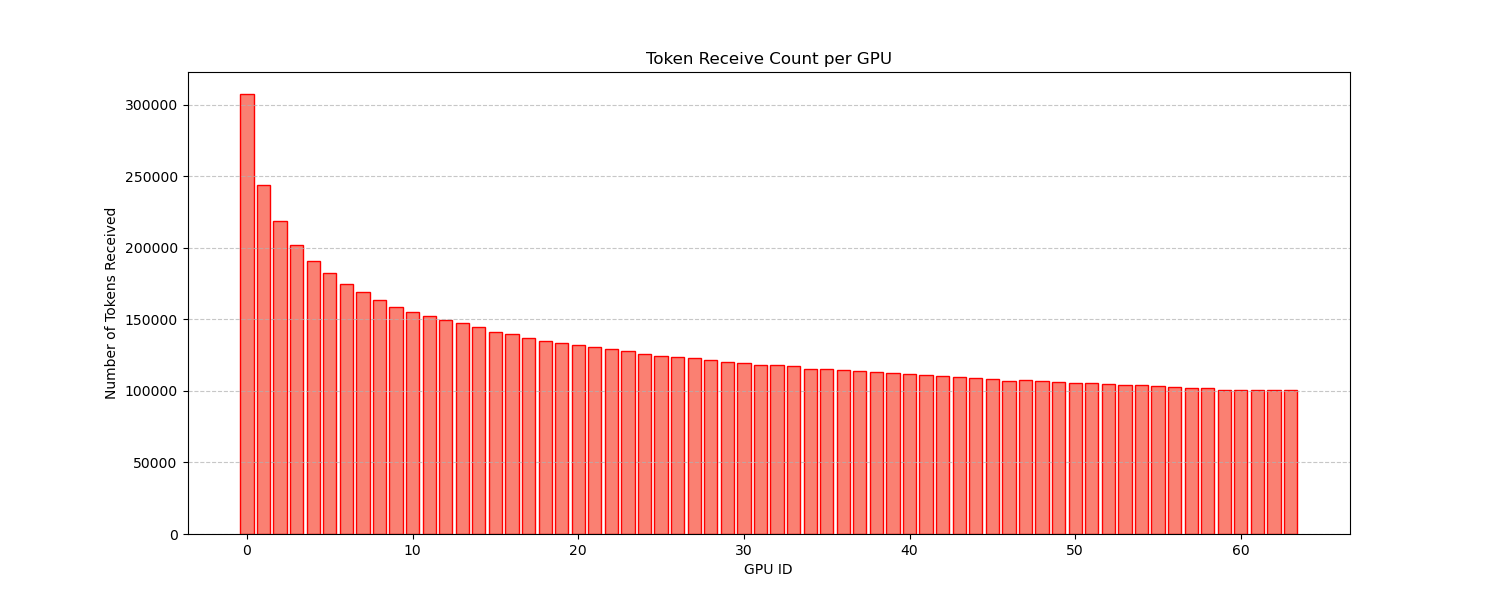
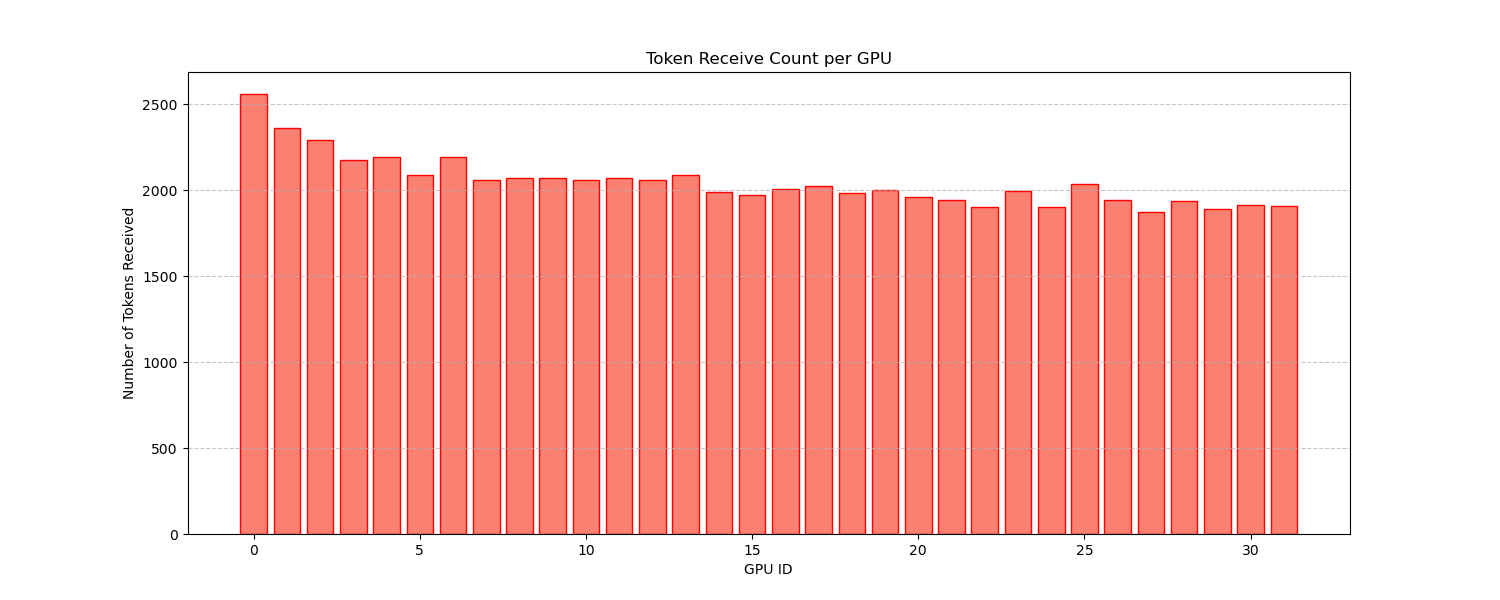
initially successful, code is not review

diff --git a/generate_workload.py b/generate_workload.py
@@ -4,7 +4,7 @@ import numpy as np
 import pickle
 from tqdm import tqdm
 from common import *
-from analyze_workload import analyze_pkl_workload
+from analyze_workload import *
 
 def generate_workload_zipf(config: SimConfig, cluster: Cluster, output_dir):
     '''
@@ -352,6 +352,143 @@ def generate_workload_zipf_custom(config: SimConfig, cluster: Cluster, output_di
     print(f"Workload Generation Complete!")
     print(f"Generated {total_requests_count} token requests in {output_dir}")
 
+def generate_workload_bimodal_skew(
+        config: SimConfig, 
+        cluster: Cluster, 
+        output_dir: str, 
+        hot_ranks: list[int] = [0, 1], 
+        hot_remote_ratio: float = 0.9, 
+        cold_remote_ratio: float = 0.1
+):
+    """
+    生成同时具备 [源端Rank偏斜] 和 [目标Zipf偏斜] 的杀手级负载。
+    保证所有 GPU 初始 Token 数量绝对相等。
+    """
+    # --- 1. 参数验证 ---
+    if not os.path.exists(output_dir):
+        os.makedirs(output_dir)
+
+    if not (0 <= hot_remote_ratio <= 1.0):
+        raise ValueError(f"hot_remote_ratio must be in [0, 1], got {hot_remote_ratio}")
+    if not (0 <= cold_remote_ratio <= 1.0):
+        raise ValueError(f"cold_remote_ratio must be in [0, 1], got {cold_remote_ratio}")
+    
+    # 验证 hot_ranks 是否在合法范围内
+    if any(r < 0 or r >= config.gpus_per_node for r in hot_ranks):
+        raise ValueError(f"hot_ranks elements must be in [0, {config.gpus_per_node - 1}]")
+
+    # 验证专家数量是否足够
+    # 注意：这里做的是全局检查，更严格的检查在循环内部针对每个节点进行
+    if config.total_experts < config.top_k:
+        raise ValueError(f"Total experts ({config.total_experts}) must be >= top_k ({config.top_k})")
+
+    print(f"Start Generate Bimodal Skew Workloads...")
+    print(f" - Hot Ranks: {hot_ranks} (Remote Ratio: {hot_remote_ratio*100}%)")
+    print(f" - Cold Ranks Remote Ratio: {cold_remote_ratio*100}%")
+    print(f" - Global Target Zipf Alpha: {config.zipf_alpha}")
+
+    # 每个 GPU 的固定 Token 数量 (严格整除，丢弃余数以保证均匀)
+    if config.num_tokens % config.total_gpus != 0:
+        print(f"Warning: num_tokens ({config.num_tokens}) is not divisible by total_gpus ({config.total_gpus}). Remainder will be dropped.")
+    
+    tokens_per_gpu = config.num_tokens // config.total_gpus
+    
+    # 预先计算全局专家的 Zipf 概率分布 (用于跨机 Token 选择专家)
+    ranks = np.arange(1, config.total_experts + 1)
+    weights = 1.0 / np.power(ranks, config.zipf_alpha)
+    zipf_prob_vector = weights / np.sum(weights)
+
+    total_generated_count = 0
+
+    for iter_idx in range(config.iter_num):
+        iter_data = []
+        print(f"Generating Iter:{iter_idx}/{config.iter_num - 1}...")
+        
+        # 重置每轮迭代的 token_id 计数器 (如果需要全局唯一，可不重置，但通常按迭代隔离)
+        current_iter_token_id = 0
+
+        for layer_id in tqdm(range(config.num_layers), desc="Layers"):
+            layer_request = []
+            
+            # 遍历每一个物理 GPU
+            for gpu_id in range(config.total_gpus):
+                node_id = gpu_id // config.gpus_per_node
+                local_rank = gpu_id % config.gpus_per_node
+                
+                # 划分本地专家和远程专家
+                local_expert_ids = [e for e, g in cluster.expert_to_gpu.items() if g // config.gpus_per_node == node_id]
+                local_expert_set = set(local_expert_ids)
+                remote_expert_ids_count = config.total_experts - len(local_expert_ids)
+
+                # 检查专家数量是否满足 top_k
+                if len(local_expert_ids) < config.top_k:
+                     # 如果本地专家不足，无法生成纯本地 Token (不重复)
+                     # 这里选择抛出异常，或者根据需求改为允许重复
+                     raise ValueError(f"Node {node_id} has {len(local_expert_ids)} experts, but top_k is {config.top_k}. Cannot satisfy local request without replacement.")
+                
+                if remote_expert_ids_count < config.top_k:
+                    raise ValueError(f"Node {node_id} has {remote_expert_ids_count} remote experts, but top_k is {config.top_k}. Cannot satisfy remote request.")
+
+                # 根据 Rank 决定跨机比例
+                if local_rank in hot_ranks:
+                    num_remote = int(tokens_per_gpu * hot_remote_ratio)
+                else:
+                    num_remote = int(tokens_per_gpu * cold_remote_ratio)
+                
+                num_local = tokens_per_gpu - num_remote
+
+                # --- 1. 生成 Local Tokens ---
+                for _ in range(num_local):
+                    # 本地 Token 随机选择本地专家 (replace=False 保证不重复)
+                    candidates = np.random.choice(local_expert_ids, config.top_k, replace=False)
+                    target_experts = [int(exp) for exp in candidates]
+                        
+                    req = TokenRequest(token_id=current_iter_token_id, src_gpu=gpu_id, target_experts=target_experts)
+                    cluster.resolve_targets(req)
+                    layer_request.append(req)
+                    current_iter_token_id += 1
+                    total_generated_count += 1
+
+                # --- 2. 生成 Remote Tokens (带 Zipf 偏斜) ---
+                for _ in range(num_remote):
+                    target_experts = []
+                    
+                    # 使用 while 循环配合批量采样
+                    # 为避免极端情况下(虽有足够远程专家但概率极低)的死循环，可加最大重试限制，但此处依靠数学概率通常没问题
+                    while len(target_experts) < config.top_k:
+                        # 批量采样以提高效率 (2倍 top_k 通常足够)
+                        candidates = np.random.choice(
+                            config.total_experts,
+                            size=config.top_k * 2,
+                            p=zipf_prob_vector,
+                            replace=True
+                        )
+                        
+                        for exp in candidates:
+                            exp = int(exp)
+                            # 必须是远程专家 (不在 local_expert_set 中) 且未被选过
+                            if exp not in local_expert_set and exp not in target_experts:
+                                target_experts.append(exp)
+                                if len(target_experts) == config.top_k:
+                                    break
+                    
+                    req = TokenRequest(token_id=current_iter_token_id, src_gpu=gpu_id, target_experts=target_experts)
+                    cluster.resolve_targets(req)
+                    layer_request.append(req)
+                    current_iter_token_id += 1
+                    total_generated_count += 1
+            
+            iter_data.append(layer_request)
+        
+        # 保存数据
+        file_path = os.path.join(output_dir, f"iter_{iter_idx}_requests.pkl")
+        with open(file_path, "wb") as f:
+            pickle.dump(iter_data, f)
+        
+        del iter_data
+
+    print(f"Workload Generation Complete!")
+    print(f"Generated {total_generated_count} token requests in {output_dir}")
 if __name__ == "__main__":
     print("Test Generate Workload")
     args = get_args()
@@ -359,8 +496,22 @@ if __name__ == "__main__":
     cluster = Cluster(config)
     hot_experts = [0, 4, 18, 28, 36, 40, 54, 63]
     hot_traffic_ratio = 0.5
+    
+    hot_ranks = [0, 1]
+    hot_remote_ratio = 0.8
+    cold_remote_ratio = 0.2
     # generate_workload_zipf(config, cluster, args.workload_output_dir)
     # generate_workload_dirichlet(config, cluster, args.workload_output_dir)
     # generate_workload_custom(config, cluster, args.workload_output_dir, hot_experts, hot_traffic_ratio)
-    generate_workload_zipf_custom(config, cluster, args.workload_output_dir)
-    analyze_pkl_workload(args.workload_output_dir, config.total_gpus)
+    # generate_workload_zipf_custom(config, cluster, args.workload_output_dir)
+    generate_workload_bimodal_skew(
+        config=config,
+        cluster=cluster,
+        output_dir=args.workload_output_dir,
+        hot_ranks=hot_ranks,
+        hot_remote_ratio=hot_remote_ratio,
+        cold_remote_ratio=cold_remote_ratio
+    )
+    analyze_bimodal_skew(
+        args.workload_output_dir, config, hot_ranks, hot_remote_ratio, cold_remote_ratio, cluster
+    )

diff --git a/test_bimodal_skew.py b/test_bimodal_skew.py
@@ -1,106 +1,12 @@
+
 import os
 import pickle
 import numpy as np
 import matplotlib.pyplot as plt
-import glob
-from common import *
+from generate_workload import generate_workload_bimodal_skew
+from common import SimConfig, Cluster, TokenRequest
 
-def analyze_pkl_workload(workload_dir, total_gpus=32):
-    """
-    统计 workload 文件夹下的所有 pkl 文件，绘制每个 GPU 的收发负载
-    """
-    if not os.path.exists(workload_dir):
-        print(f"Error: Directory '{workload_dir}' not found.")
-        return
-
-    # recv_counts[i] 表示 gpu i 接收了多少个 Token
-    recv_counts = np.zeros(total_gpus, dtype=int)
-
-    # 获取所有 pkl 文件
-    pkl_files = glob.glob(os.path.join(workload_dir, "*.pkl"))
-    if not pkl_files:
-        print("No .pkl files found in the directory.")
-        return
-
-    for pkl_file in pkl_files:
-        with open(pkl_file, 'rb') as f:
-            layers_requests = pickle.load(f)
-            
-            for layer in layers_requests:
-                for req in layer:                    
-                    # 统计接收端
-                    for tgt_gpu in req.target_gpus:
-                        recv_counts[tgt_gpu] += 1
-
-    print("\n" + "="*40)
-    print("Workload Summary")
-    print("="*40)
-    print(f"Total Recv Tokens     : {np.sum(recv_counts)}")
-    print("-" * 40)
-    print(f"Max Recv by single GPU: {np.max(recv_counts)} (GPU {np.argmax(recv_counts)})")
-    print(f"Min Recv by single GPU: {np.min(recv_counts)} (GPU {np.argmin(recv_counts)})")
-    print("="*40)
-
-    plt.figure(figsize=(15, 6))
-
-    plt.bar(range(total_gpus), recv_counts, color='salmon', edgecolor='red')
-    plt.title('Token Receive Count per GPU')
-    plt.xlabel('GPU ID')
-    plt.ylabel('Number of Tokens Received')
-    plt.grid(axis='y', linestyle='--', alpha=0.7)
-    
-    save_path = "workload_distribution.png"
-    plt.savefig(save_path)
-
-def analyze_post_workload(gpus :list[GPU], save_path=None):
-    '''
-    接收simulator最后的gpu list，绘制调度完成之后的gpu通信负载柱状图，并保存在save_path中
-    '''
-
-    inter_send_count = np.zeros(len(gpus), dtype=int)
-    inter_recv_count = np.zeros(len(gpus), dtype=int)
-    intra_send_count = np.zeros(len(gpus), dtype=int)
-    intra_recv_count = np.zeros(len(gpus), dtype=int)
-
-    for gpu in gpus:
-        inter_send_count[gpu.id] += gpu.inter_tx
-        inter_recv_count[gpu.id] += gpu.inter_rx
-        intra_send_count[gpu.id] += gpu.intra_tx
-        intra_recv_count[gpu.id] += gpu.intra_rx
-    
-    plt.figure(figsize=(12, 12))
-    plt.subplot(2, 2, 1)
-    plt.bar(range(len(gpus)), inter_send_count)
-    plt.title("Inter-node Token Send Count per GPU")
-    plt.xlabel("GPU ID")
-    plt.ylabel("Number of Tokens Send")
-    plt.grid(axis='y', linestyle='--', alpha=0.7)
-
-    plt.subplot(2, 2, 2)
-    plt.bar(range(len(gpus)), inter_recv_count)
-    plt.title("Inter-node Token Recv Count per GPU")
-    plt.xlabel("GPU ID")
-    plt.ylabel("Number of Tokens Recv")
-    plt.grid(axis='y', linestyle='--', alpha=0.7)
-
-    plt.subplot(2, 2, 3)
-    plt.bar(range(len(gpus)), intra_send_count)
-    plt.title("Intra-node Token Send Count per GPU")
-    plt.xlabel("GPU ID")
-    plt.ylabel("Number of Tokens Send")
-    plt.grid(axis='y', linestyle='--', alpha=0.7)
-
-    plt.subplot(2, 2, 4)
-    plt.bar(range(len(gpus)), intra_recv_count)
-    plt.title("Intra-node Token Recv Count per GPU")
-    plt.xlabel("GPU ID")
-    plt.ylabel("Number of Tokens Send")
-    plt.grid(axis='y', linestyle='--', alpha=0.7)
-
-    if save_path is not None:
-        plt.savefig(save_path)
-    
-def analyze_bimodal_skew(workload_dir, config, hot_ranks, hot_remote_ratio, cold_remote_ratio, cluster):
+def analyze_bimodal_skew(workload_dir, config, hot_ranks, hot_remote_ratio, cold_remote_ratio):
     print("\nStarting Analysis of Bimodal Skew Workload...")
     
     # 1. Load Data
@@ -197,6 +103,37 @@ def analyze_bimodal_skew(workload_dir, config, hot_ranks, hot_remote_ratio, cold
     print(f"Saved target zipf plot to {os.path.join(workload_dir, 'analysis_target_zipf.png')}")
 
 if __name__ == "__main__":
-    args = get_args()
-    config = get_config(args)
-    analyze_pkl_workload(args.workload_output_dir, config.total_gpus)
+    # 1. Setup Configuration
+    # Using small scale for quick testing, but large enough to show patterns
+    config = SimConfig(
+        num_nodes=4,
+        gpus_per_node=8,
+        experts_per_gpu=2,  # Total 64 experts
+        num_layers=2,
+        iter_num=2,
+        seq_len=1024,       # Smaller seq_len for faster generation
+        batch_size=4,
+        top_k=2,
+        zipf_alpha=1.2
+    )
+    
+    cluster = Cluster(config)
+    output_dir = "./test_workload_bimodal"
+    
+    hot_ranks = [0, 1]
+    hot_remote_ratio = 0.8
+    cold_remote_ratio = 0.2
+    
+    # 2. Generate Workload
+    print("Generating Workload...")
+    generate_workload_bimodal_skew(
+        config=config,
+        cluster=cluster,
+        output_dir=output_dir,
+        hot_ranks=hot_ranks,
+        hot_remote_ratio=hot_remote_ratio,
+        cold_remote_ratio=cold_remote_ratio
+    )
+    
+    # 3. Analyze Workload
+    analyze_bimodal_skew(output_dir, config, hot_ranks, hot_remote_ratio, cold_remote_ratio)

diff --git a/common.py b/common.py
@@ -165,7 +165,7 @@ def get_args():
     parser = argparse.ArgumentParser(description="Simulation Experiment")
     parser.add_argument("--num_nodes", default=4, type=int)
     parser.add_argument("--gpus_per_node", default=8, type=int)
-    parser.add_argument("--experts_per_gpu", default=2, type=int)
+    parser.add_argument("--experts_per_gpu", default=1, type=int)
     parser.add_argument("--bw_inter", default=25.0, type=float)
     parser.add_argument("--bw_intra", default=400.0, type=float)
     parser.add_argument("--seq_len", default=8192, type=int)
